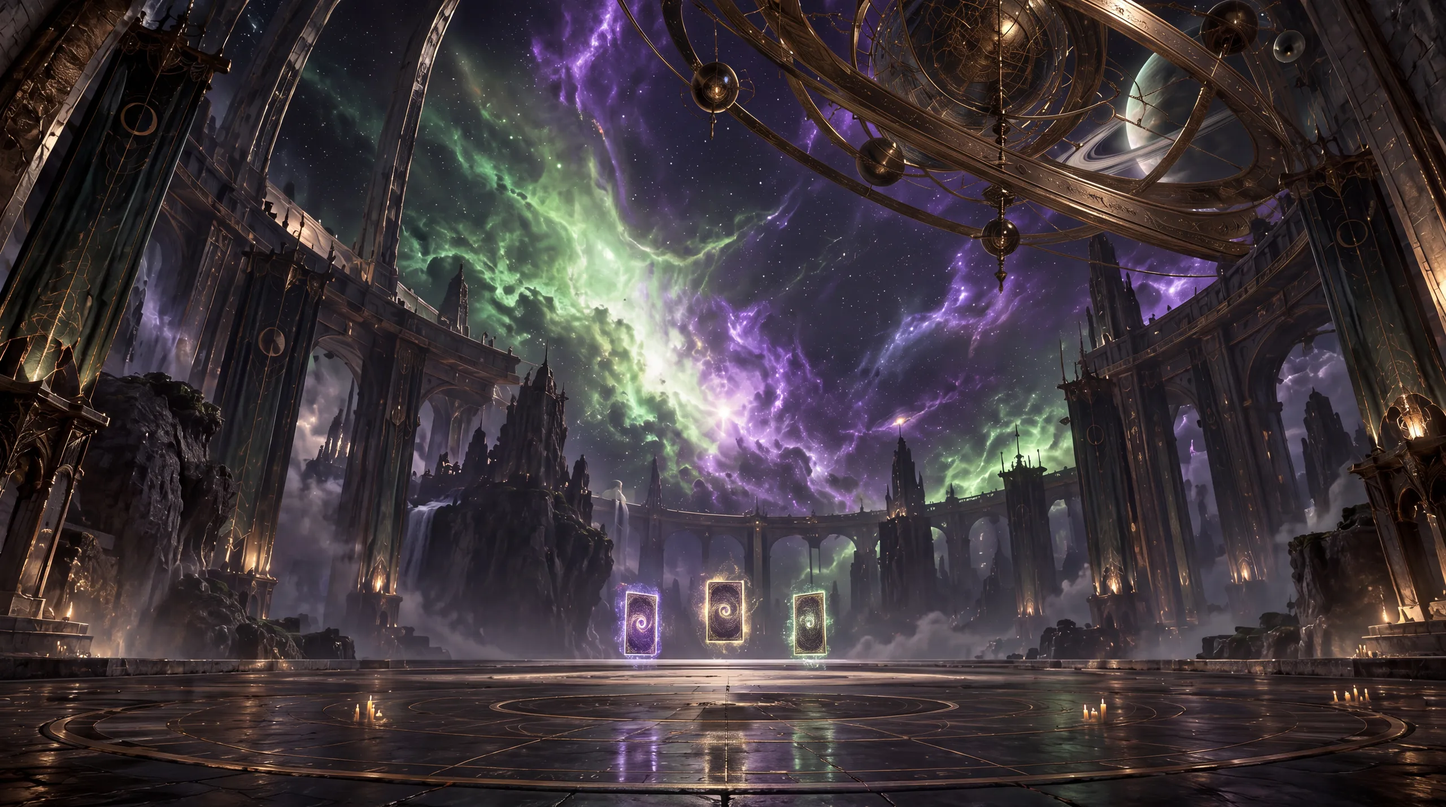
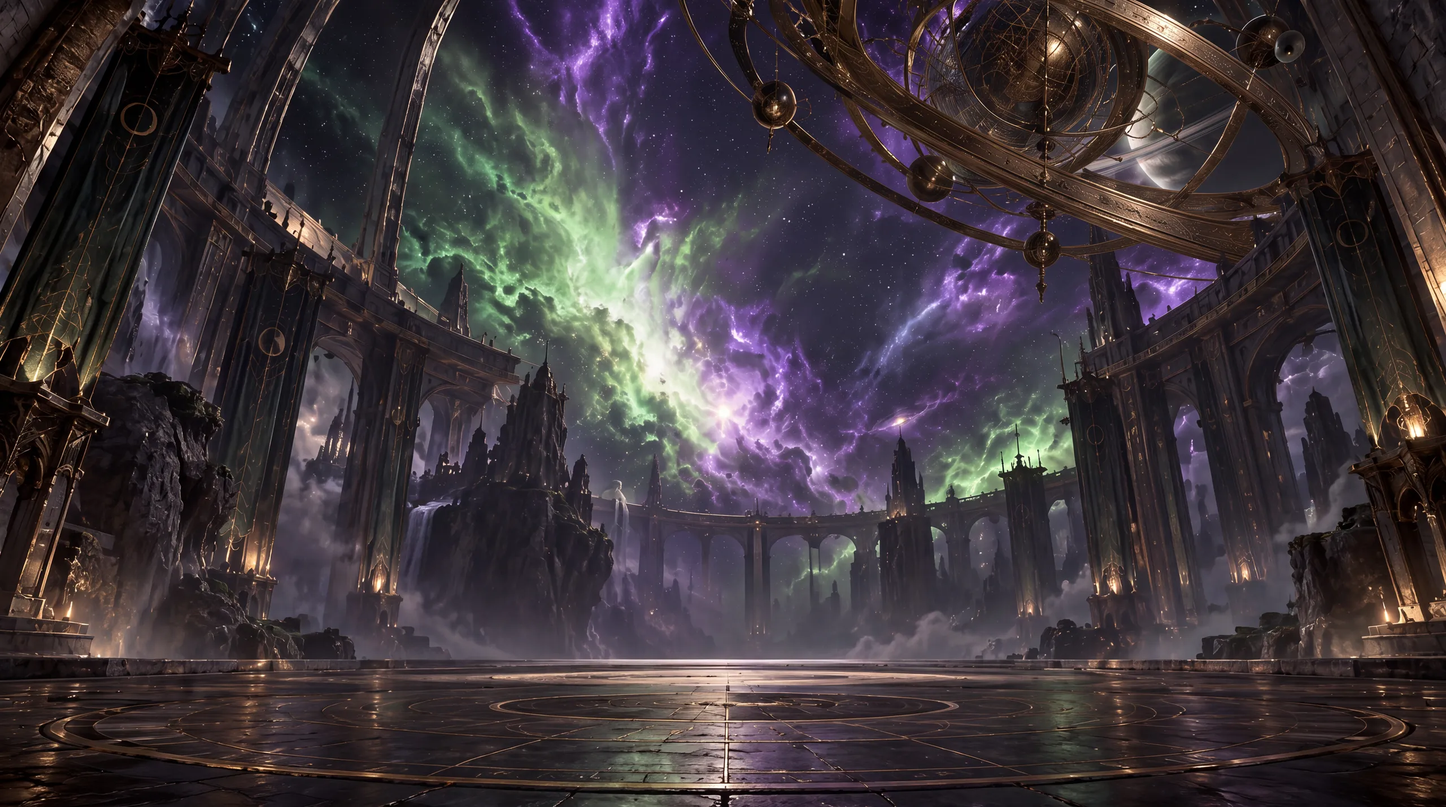
Hall: 4K observatory without painted cards

diff --git a/docs/core-progress.md b/docs/core-progress.md
@@ -14,7 +14,7 @@
 - Back-to-top lime button (ToTop.tsx, after 1 screen); catalog promo slot spans the row and hides when empty (no hole in tiles); sticky catalog toolbar dense; worlds menu dense glass; footer «Найти свой сервер» → catalog#search (opens + focuses search), footer links scroll to top.
 - L2 server pages: one shared header = owner sea-cliff fortress at dusk (server-castle-v1 400/800/1600/2000, L2_SERVER_COVER); other worlds keep serverArt. Then: the fortress is a fixed full-page background (.gs-server-bg), hero art layers hidden, footer translucent.
 - Hall of worlds: owner observatory art (hub/observatory-{1280,1920,2000}, phone crop observatory-m-{720,1080} with the painted cards faded out); index.html preload updated; old nave-* kept (account entry still uses nave-1920).
-- Hall: owner 4K observatory (5504px source → 1280/1920/2560/3840) + owner vertical mobile (720/1080). Painted cards still in the desktop art (owner regenerating). L2 server page hero shrunk to 64px (56 phone), title block without negative margin — no empty band.
+- Hall: owner 4K observatory (5504px source → 1280/1920/2560/3840) + owner vertical mobile (720/1080). Desktop art replaced by the owner 4K version without painted cards. L2 server page hero shrunk to 64px (56 phone), title block without negative margin — no empty band.
 - World search + epoch: no outer frame, two glass blocks of 64px, search centred; chronicles open as a dropdown panel under the epoch block (absolute, z above boards), layout does not move (≥768px; phones unchanged).
 - Header and live strip more transparent (rgba(16,18,24,.66→.56)).
 - Checked: 390 and 1440 dark, home/catalog/openings/rating/favorites/server; no horizontal overflow on openings at 390 (scrollWidth 390).
